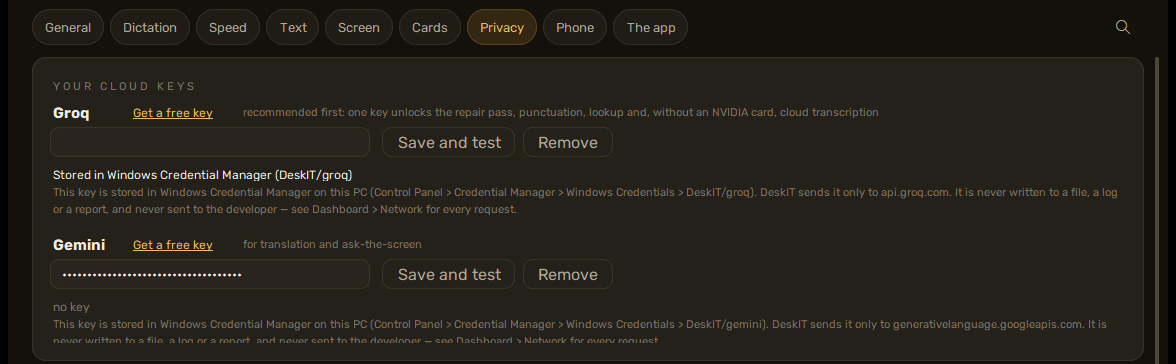
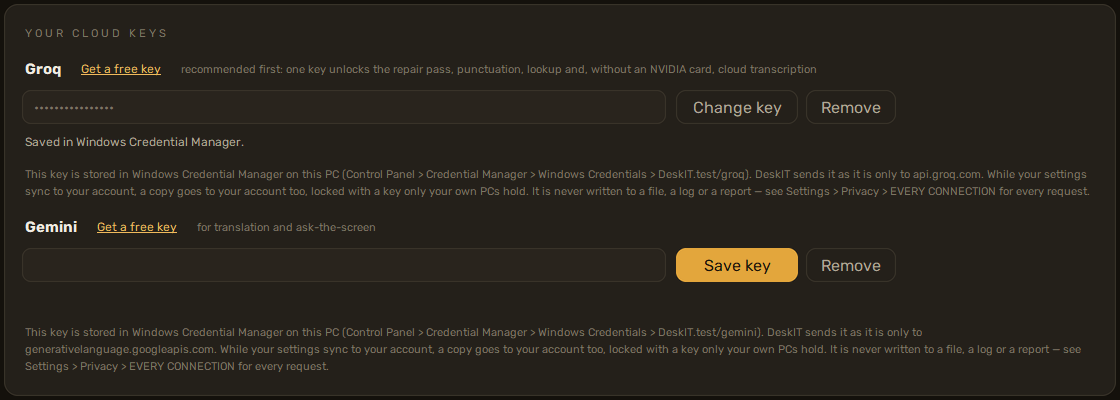
The guide: the cloud-keys page, the locked key, Groq translates too
Chapter 2 gets the wizard's Cloud keys page (a new picture), chapter 5
Save key / Change key / Cancel and Groq in the Translate chain, the
quick start no longer counts pages; the Settings picture retaken with
a locked key. One key button is 122 px, as in the approved picture.

diff --git a/keyrow.py b/keyrow.py
@@ -183,7 +183,9 @@ class KeyRow(tk.Frame):
         for child in self.buttons.winfo_children():
             child.destroy()
         for i, (text, command, primary) in enumerate(specs):
-            w = self.buttons_w if len(specs) == 1 else (self.buttons_w - 8) // 2
+            # one button at the width the owner approved in the picture
+            # (2026-10-03); two share the room the field leaves them
+            w = 122 if len(specs) == 1 else (self.buttons_w - 8) // 2
             ui.Button(self.buttons, text, command, bg=self._bg, primary=primary,
                       quiet=not primary, w=w, h=34).pack(
                 side="left", padx=(0, 8 if i < len(specs) - 1 else 0))

diff --git a/dashboard.py b/dashboard.py
@@ -6960,7 +6960,7 @@ class Dashboard:
 
     KEY_PROVIDERS = (("groq", "Groq", "https://console.groq.com",
                       "recommended first: one key unlocks the repair pass, punctuation, "
-                      "lookup and, without an NVIDIA card, cloud transcription"),
+                      "lookup, translation and, without an NVIDIA card, cloud transcription"),
                      ("gemini", "Gemini", "https://aistudio.google.com",
                       "for translation and ask-the-screen"))
 

diff --git a/dev/shot_wizard.py b/dev/shot_wizard.py
@@ -142,6 +142,7 @@ def _pages(out: Path) -> list[Path]:
         show("keys"); shot("06-keys")
         w._rebind("punctuate_hotkey"); shot("06-keys-listening")
         w._captured(None)
+        show("cloud"); shot("06b-cloud")
         show("extras"); shot("07-extras")
         # signed in by now, as a person is: the last page carries the
         # sync row (on by default) above the two switches

diff --git a/docs/en/02-first-run.md b/docs/en/02-first-run.md
@@ -13,9 +13,9 @@ done. **הבא** (next) moves on, **דלג** (skip) closes it — and a skipped 
 back by itself. To see it again: Settings > About > **Show the tour**. This page is the
 long version of those four cards.
 
-**The two-sentence version.** The first start opens a seven-page wizard; only three pages ask
-you anything (which microphone, whether to download now, and the optional extras) and every
-other page is **Next**. It runs once; `main.py --setup` from the install folder runs it again.
+**The two-sentence version.** The first start opens a short wizard; only a few pages ask
+you anything (which microphone, whether to download now, the cloud keys and the optional
+extras) and every other page is **Next**. It runs once; `main.py --setup` from the install folder runs it again.
 Since the installer downloads the model and the packs itself ([chapter 1](01-install)), the
 "This computer" page is usually skipped — it appears only for what you unticked there or
 what did not finish.
@@ -118,9 +118,30 @@ still downloading; **Skip** goes on without it.
 
 ![Keys](../img/02-keys.png)
 
-The keyboard keys DeskIT listens to — hold, latch, punctuate, ask the screen — as they are
-now. These are hotkeys, not API keys; the cloud keys come in [chapter 5](05-cloud). Change
-them later on the dashboard's **Keys** place.
+The keyboard keys DeskIT listens to — hold, latch, punctuate, ask the screen, translate — as
+they are now. These are hotkeys, not API keys; the cloud keys are the next page. Change them
+later on the dashboard's **Keys** place.
+
+## Cloud keys
+
+![Cloud keys](../img/02-cloud.png)
+
+Two cards, **Groq** and **Gemini**, one free key each (no credit card). Each card says what
+its key unlocks and what you do without it:
+
+- **Groq** fixes the words it misheard, puts in punctuation (Ctrl+F2) and translates what you
+  select (F8). Without it, what you say is pasted exactly as heard and those two keys do
+  nothing.
+- **Gemini** translates what you select (F8) and goes first for it. Without it, Groq
+  translates; with neither key, F8 does nothing.
+
+A card's switch is the consent ([chapter 5](05-cloud) says what leaves and to whom) and opens
+the key's field under it, with the way to a free key. **Save key** checks the key with the
+provider at once; a key that works is drawn as a row of dots with **Change key** beside it.
+**Change key** opens an empty field with **Save** and **Cancel** — Cancel keeps the saved key,
+and a new key the provider refuses gives the saved one back. **Next** waits while a card is on
+without a working key. Skip both and the keys can be added later in **Settings > Privacy**;
+the first time you press F8 or Ctrl+F2 without one, Home says which key to add and where.
 
 ## Optional extras
 

diff --git a/docs/he/05-cloud.md b/docs/he/05-cloud.md
@@ -29,15 +29,20 @@ title: 5. תכונות ענן
 
 ## להשיג מפתח חינמי
 
-**Groq קודם.** מפתח Groq אחד פותח את מעבר התיקון, הפיסוק, החיפוש, ובמחשב בלי כרטיס אנבידיה
-— תמלול בענן. יוצרים אותו ב־[console.groq.com](https://console.groq.com) (מסלול חינמי, בלי
-כרטיס אשראי).
+**Groq קודם.** מפתח Groq אחד פותח את מעבר התיקון, הפיסוק, החיפוש, התרגום, ובמחשב בלי
+כרטיס אנבידיה — תמלול בענן. יוצרים אותו ב־[console.groq.com](https://console.groq.com)
+(מסלול חינמי, בלי כרטיס אשראי).
 
-**Gemini** רק לתרגום ולשאלה על המסך, ב־[aistudio.google.com](https://aistudio.google.com).
+**Gemini** לתרגום (כשיש את שני המפתחות הוא הראשון בתור; Groq נכנס כשהוא עמוס או שנגמרה
+לו המכסה) ולשאלה על המסך, ב־[aistudio.google.com/apikey](https://aistudio.google.com/apikey)
+(חינם, בלי כרטיס אשראי).
 
-ואז **Settings > Privacy > YOUR CLOUD KEYS**: מדביקים את המפתח בשדה המוסתר (הוא לא מוצג
-שוב לעולם), לוחצים **Save and test** — "Works · N models visible" או השגיאה של הספק עצמו — והמפתח נשמר. **Remove** מוחק
-אותו. המשפט מתחת לכל שדה:
+האשף מבקש את שניהם בדף **מפתחות ענן** שלו ([פרק 2](02-first-run)). אחר כך:
+**Settings > Privacy > YOUR CLOUD KEYS**. מדביקים את המפתח בשדה המוסתר ולוחצים
+**Save key**: המפתח נשמר ונבדק מול הספק מיד. מפתח שעובד מוצג כשורת נקודות — לעולם לא
+המפתח עצמו — ולידה **Change key**; ההחלפה פותחת שדה ריק עם **Save** ו־**Cancel**, הביטול
+משאיר את המפתח השמור, ומפתח חדש שהספק דוחה מחזיר את השמור. **Remove** מוחק אותו. המשפט
+מתחת לכל שדה:
 
 > This key is stored in Windows Credential Manager on this PC (Control Panel > Credential Manager > Windows Credentials > DeskIT/groq). DeskIT sends it as it is only to api.groq.com. While your settings sync to your account, a copy goes to your account too, locked with a key only your own PCs hold. It is never written to a file, a log or a report — see Settings > Privacy > EVERY CONNECTION for every request.
 

diff --git a/docs/en/05-cloud.md b/docs/en/05-cloud.md
@@ -31,16 +31,21 @@ those terms; when the provider changes its terms, the card comes back.
 
 ## Getting a free key
 
-**Groq first.** One Groq key unlocks the repair pass, punctuation, lookup and, on a PC without
-an NVIDIA card, cloud transcription. Create it at
+**Groq first.** One Groq key unlocks the repair pass, punctuation, lookup, translation and, on
+a PC without an NVIDIA card, cloud transcription. Create it at
 [console.groq.com](https://console.groq.com) (free tier, no credit card).
 
-**Gemini** only for translation and ask-the-screen, at
-[aistudio.google.com](https://aistudio.google.com).
+**Gemini** for translation (it goes first for it when you have both keys; Groq takes over when
+Gemini is busy or spent) and ask-the-screen, at
+[aistudio.google.com/apikey](https://aistudio.google.com/apikey) (free, no credit card).
 
-Then **Settings > Privacy > YOUR CLOUD KEYS**: paste the key into the masked field (it is
-never shown again), press **Save and test** — "Works · N models visible" or the provider's own
-error — and the key is stored. **Remove** deletes it. The sentence under each field:
+The wizard asks for both on its **Cloud keys** page ([chapter 2](02-first-run)). Afterwards:
+**Settings > Privacy > YOUR CLOUD KEYS**. Paste the key into the masked field and press
+**Save key**: the key is stored and checked with the provider at once. A key that works is
+shown as a row of dots — never the key itself — with **Change key** beside it; Change opens an
+empty field with **Save** and **Cancel**, Cancel keeps the saved key, and a new key the
+provider refuses gives the saved one back. **Remove** deletes it. The sentence under each
+field:
 
 > This key is stored in Windows Credential Manager on this PC (Control Panel > Credential Manager > Windows Credentials > DeskIT/groq). DeskIT sends it as it is only to api.groq.com. While your settings sync to your account, a copy goes to your account too, locked with a key only your own PCs hold. It is never written to a file, a log or a report — see Settings > Privacy > EVERY CONNECTION for every request.
 

diff --git a/docs/he/quickstart.md b/docs/he/quickstart.md
@@ -10,8 +10,9 @@ title: התחלה מהירה
    מ[הגרסה האחרונה](https://github.com/DeskIT-app/DeskIT/releases/latest). אם חלונות אומר
    "Windows protected your PC": **More info** ואז **Run anyway** ([למה](01-install)).
 2. **להתקין.** בלי סיסמת מנהל. דסק-איט נפתח לבד בסוף.
-3. **האשף.** שבעה דפים; רק שלושה שואלים משהו. מדברים למיקרופון, לוחצים **Download**
-   למודל העברי (1.62 ג׳יגה, פעם אחת), וכל השאר **Next**.
+3. **האשף.** כמה דפים; רובם רק **Next**. מדברים למיקרופון, לוחצים **Download** למודל
+   העברי (1.62 ג׳יגה, פעם אחת), מדביקים מפתח ענן חינמי אם רוצים תיקון, פיסוק ותרגום, וכל
+   השאר **Next**.
 4. **הסיור.** ארבעה כרטיסים ליד הנקודה מראים את הנקודה, את המקש ואת המדף. **דלג** אם
    ממהרים; **Show the tour** בהגדרות מחזיר אותו.
 5. **להכתיב.** לוחצים בשדה טקסט כלשהו, מחזיקים את המקש, מדברים, משחררים. הטקסט העברי

diff --git a/docs/en/quickstart.md b/docs/en/quickstart.md
@@ -10,8 +10,9 @@ title: Quick start
    from the [latest release](https://github.com/DeskIT-app/DeskIT/releases/latest). If Windows
    says "Windows protected your PC": **More info**, then **Run anyway** ([why](01-install)).
 2. **Install.** No administrator password. DeskIT opens by itself at the end.
-3. **The wizard.** Seven pages; only three ask anything. Talk to the microphone, press
-   **Download** for the Hebrew model (1.62 GB, once), and **Next** through the rest.
+3. **The wizard.** A few pages; most are just **Next**. Talk to the microphone, press
+   **Download** for the Hebrew model (1.62 GB, once), paste a free cloud key if you want the
+   repair, punctuation and translation, and **Next** through the rest.
 4. **The tour.** Four cards beside the dot show you the dot, the key and the shelf. **דלג**
    (skip) if you are in a hurry; **Show the tour** in Settings brings it back.
 5. **Dictate.** Click into any text field, hold the key, speak, release. The Hebrew text is
